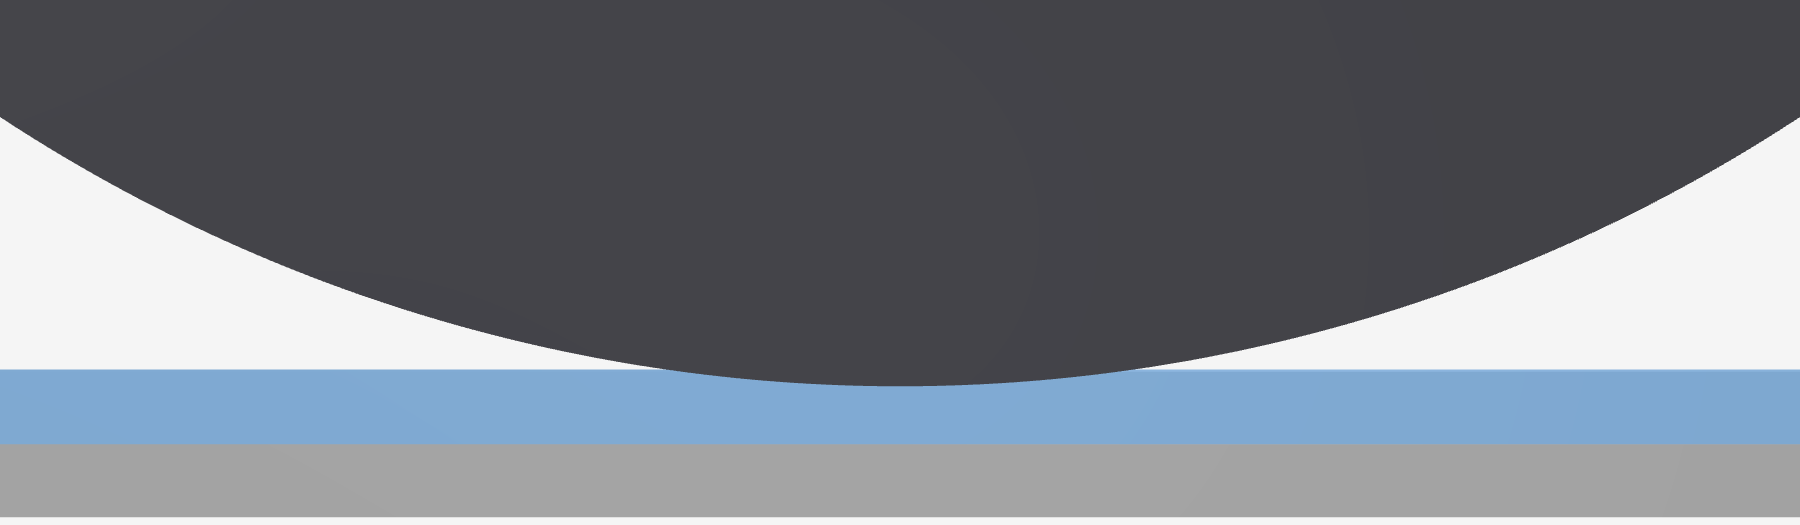
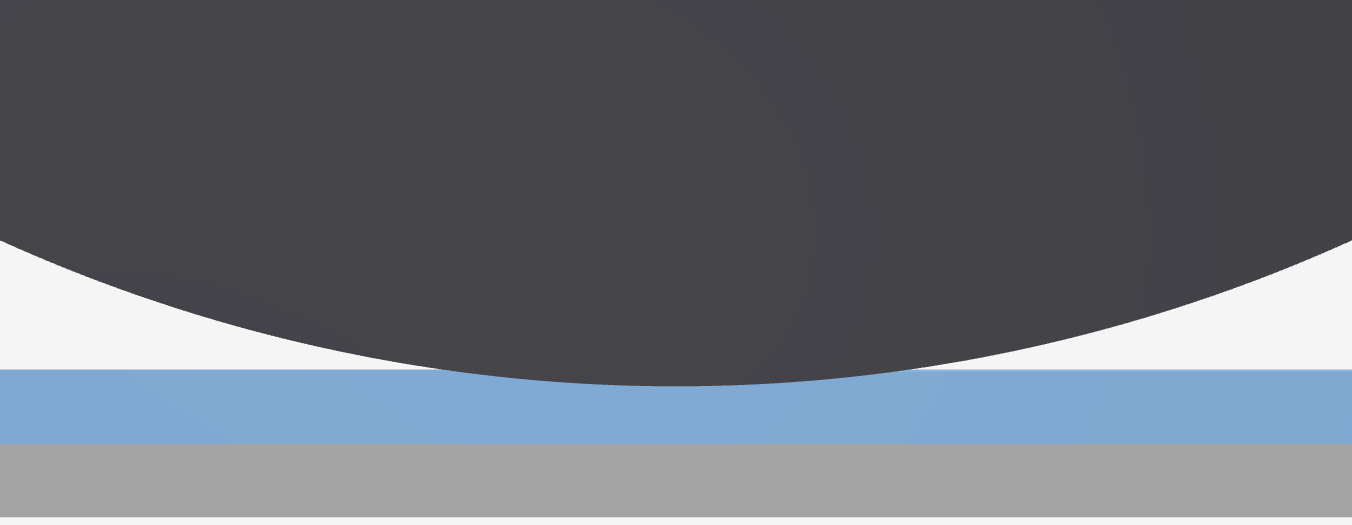
week2: E4 re-rendered at 1352x525, fits page width

Changed region(s): [[0.5592, 0.2133, 1.0, 0.7314], [0.0, 0.2133, 0.4349, 0.7314]]

diff --git a/week2.html b/week2.html
@@ -1303,8 +1303,8 @@ footer.foot { color: var(--muted); font-size: 0.8rem; border-top: 1px solid var(
 <h3>E4 粘结薄层、近似不可压：球半径 ×2</h3>
 
 <p><strong>设置</strong>：厚 \(b\) 的弹性层底面粘结于刚性底座，泊松比 \(\nu\to0.5\)。刚球（半径 \(R\)）压入，同一压深 \(\delta\)，球半径 ×2。hydro 用 (A)。</p>
-<figure style="margin:12px 0"><img src="assets/images/E4_a.png" style="width:1440px;max-width:100%;height:auto" alt="E4_a"></figure>
-<figure style="margin:12px 0"><img src="assets/images/E4_b.png" style="width:1440px;max-width:100%;height:auto" alt="E4_b"></figure>
+<figure style="margin:12px 0"><img src="assets/images/E4_a.png" style="width:1082px;max-width:100%;height:auto" alt="E4_a"></figure>
+<figure style="margin:12px 0"><img src="assets/images/E4_b.png" style="width:1082px;max-width:100%;height:auto" alt="E4_b"></figure>
 <p><em>两张图是过球心的剖面，从正侧面看，只差球的半径。浅灰色是刚性底座，蓝色是粘在底座上的薄弹性层（厚 \(b=0.1\)，泊松比 0.499，近似不可压），深灰色是刚球下部（球顶在画面之外）。上图球半径 \(R=2.25\)，下图 \(2R=4.5\)，压深都是 0.02。球越大，球底越平，压进层里的那一段越宽：几何重叠的半宽是层厚的 3 倍（上）和约 4.2 倍（下），都远大于层厚，这正是薄层解成立的条件。</em></p>
 <p><strong>本节用到的量</strong>（各向同性线弹性，由 \(E\)、\(\nu\) 确定）</p>
 <ul>
